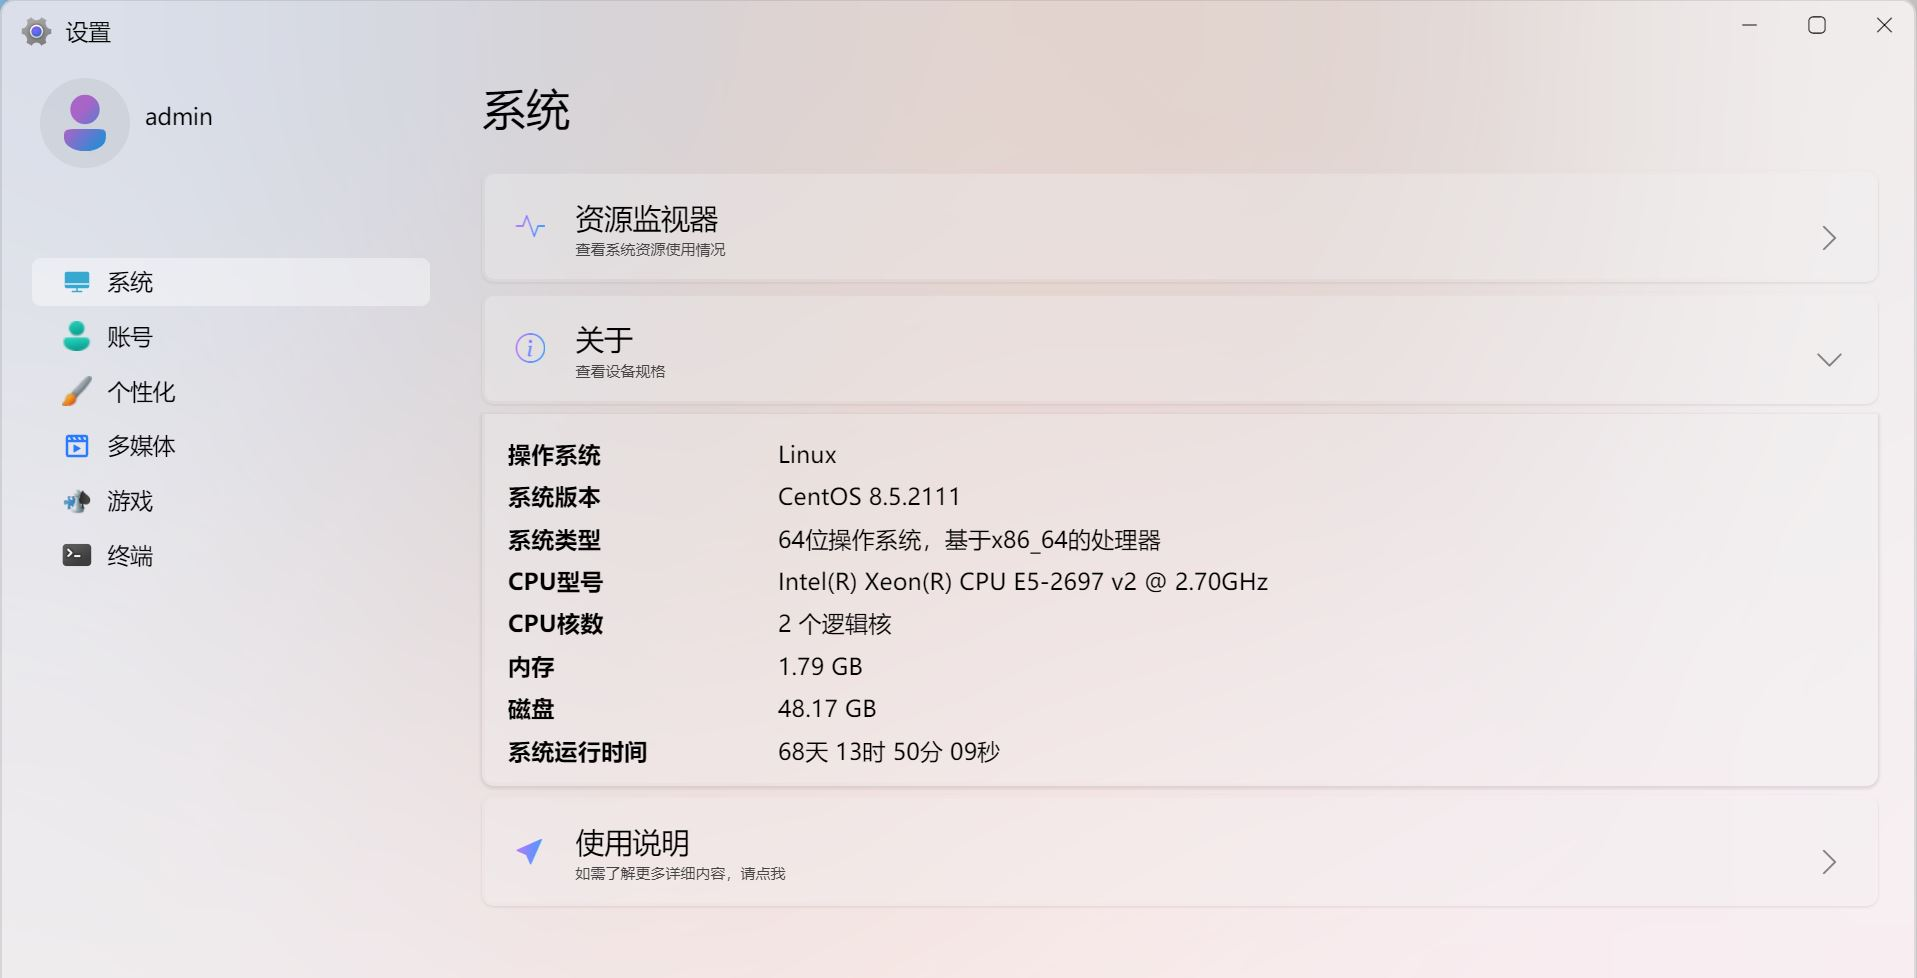
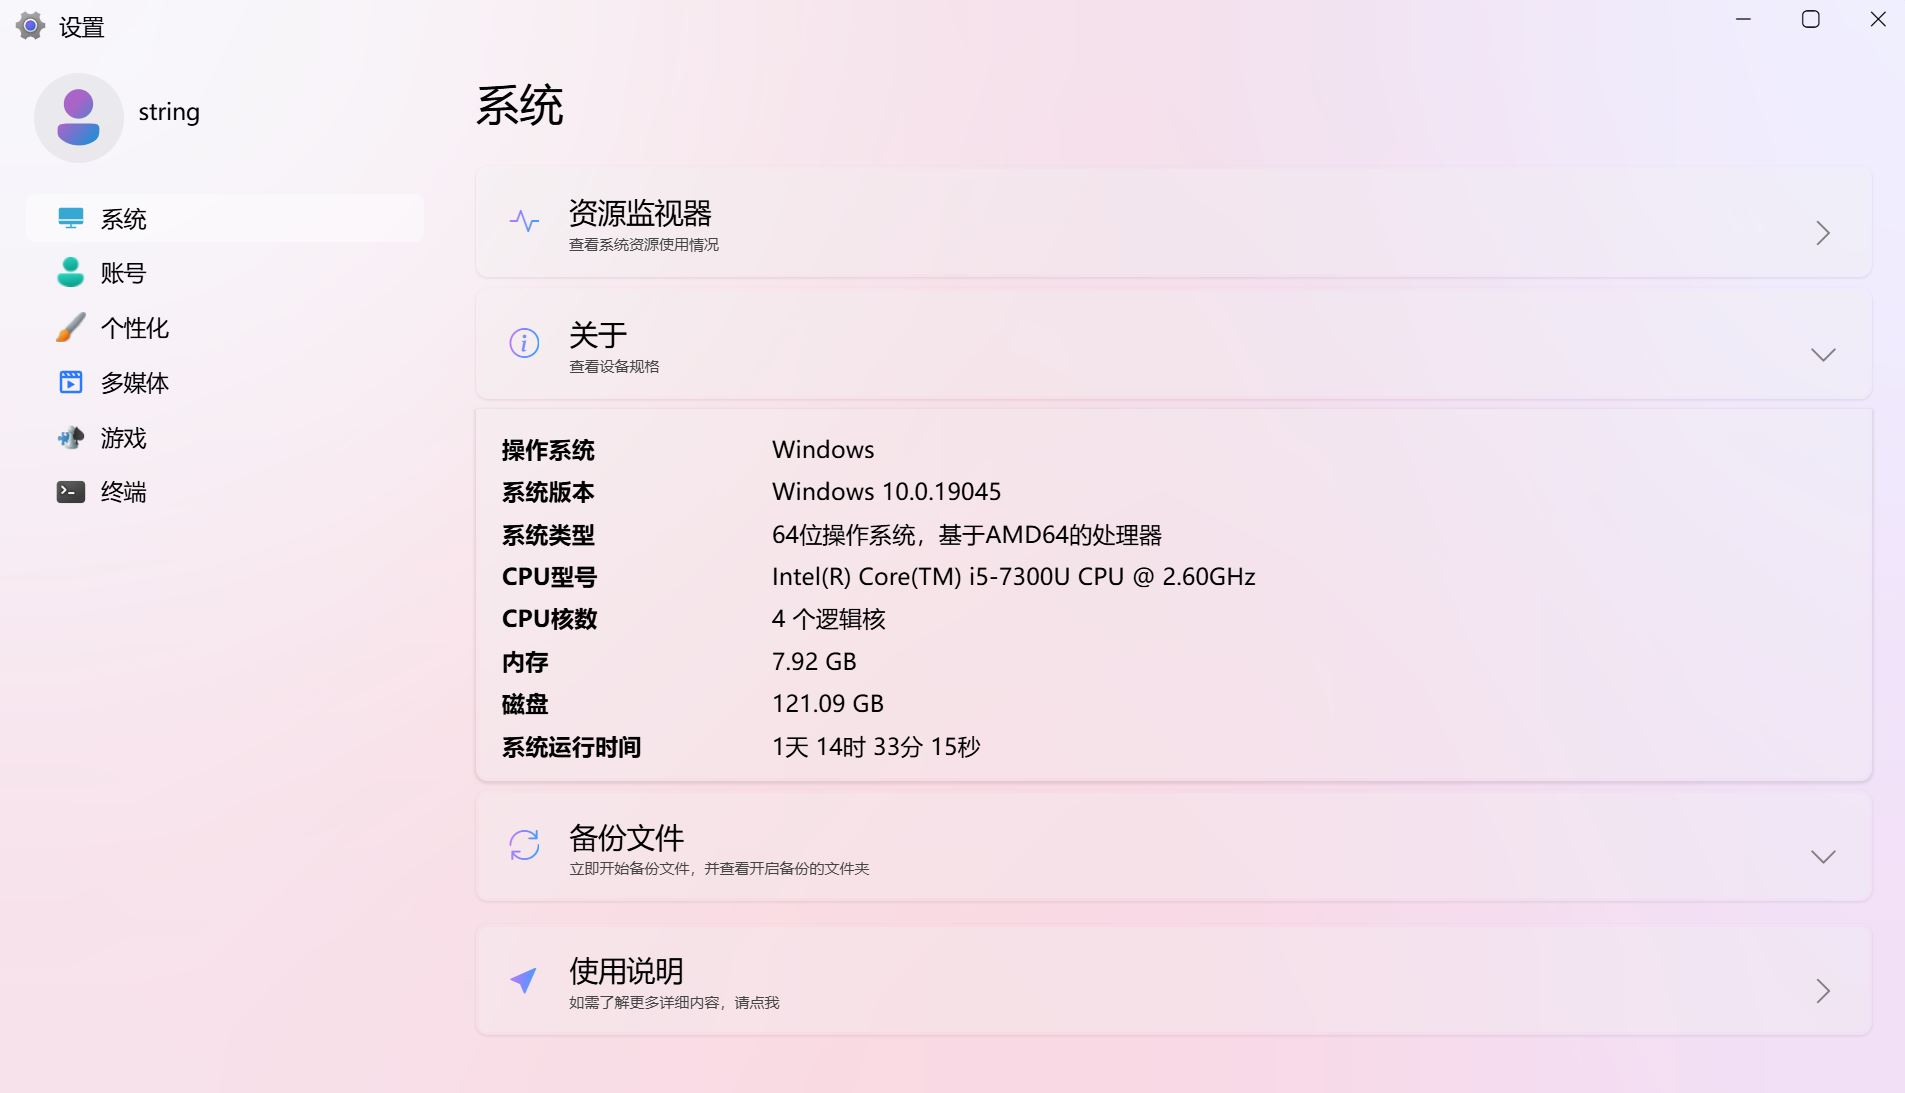
add

Changed region(s): [[0.0, 0.0, 0.8672, 0.9202], [0.9291, 0.0, 1.0, 1.0], [0.031, 0.5521, 0.0929, 0.5828]]

diff --git a/p/940241891.html b/p/940241891.html
@@ -19,7 +19,7 @@
       <header class="header mobile-only"></header>
       <div class="article banner top"><div class="content"><div class="bottom only-title"><div class="text-area">
         <h1 class="text title"><span>Windows 风格的个人网盘</span></h1>
-      </div><div class="publish-date"><span>发布时间: 2024-02-28</span>&nbsp;&nbsp;&nbsp;&nbsp;<span>更新时间: 2024-11-13</span><span class="copy-right">版权</span></div><div class="copyright-content"></div></div></div></div>
+      </div><div class="publish-date"><span>发布时间: 2024-02-28</span>&nbsp;&nbsp;&nbsp;&nbsp;<span>更新时间: 2024-11-19</span><span class="copy-right">版权</span></div><div class="copyright-content"></div></div></div></div>
       <article class="md-text content">
         <h2>写在最前面</h2>
         <p>众所周知，当前使用最广泛的云盘是百度网盘，而百度各种骚操作真让人无法忍受，倍速看视频还要开会员，真是恶心他妈给恶心开门。而号称不限速的阿里云盘也开始限速了，后面可能也和百度一个德行。其实各种体验问题都可以容忍，最无法忍受的是数据安全，我们上传到百度网盘的每一个文件，都已经被备份了 n 份了，尽管有些文件已经被我们删除了，但是这些文件仍然在百度的服务器里，个人隐私极不安全；可能有些人不太清楚，很久之前百度网盘有一个秒传功能，为什么一个几 G 的文件能秒传，那是因为百度的服务器里已经有了一个相同的文件了，你上传的文件其实并不是你的文件，如果你删除了这个文件，其实你也并没有删除这个文件。而且百度还有人工审核（偷窥）用户隐私图片的前科。还有另一个非常严重的问题是自己好不容易收藏的电影，结果变成了 8s 的教育片。</p>
@@ -35,6 +35,7 @@
             <li>支持 txt、markdown、xmind脑图、表格、文档的在线编辑功能 —— 开源支持前2个</li>
             <li>支持 python 脚本在线编辑和运行 —— 开源支持</li>
             <li>支持给文件添加桌面快捷方式</li>
+            <li>支持自动备份指定文件夹中的所有文件</li>
             <li>支持远程连接 Linux 服务器</li>
             <li>音乐播放器，支持播放云盘（服务端）和本地（客户端）的音乐</li>
             <li>支持 Karaoke，自建曲库，在家想唱就唱</li>
@@ -83,26 +84,10 @@
         <h3>页面总概览</h3>
         <p>桌面背景图片可以在<code>设置</code>里更换。</p>
         <img src="/img/Windows/desktop.jpg" alt="desktop.jpg" loading="lazy">
-        <h3>文件资源管理器</h3>
-        <p>上边一排工具栏依次是新建文件、新建文件夹、重命名、移动、复制、上传、下载、分享、删除、列表展示/图标展示，这些图标均来源<code>Windows10</code>的系统图标。文件列表可按照名称、创建时间、修改时间排序。文件资源管理器中的所有文件，除了支持在线编辑的文件外，其他格式的文件会直接用浏览器打开，浏览器能打开预览的文件可以直接在浏览器中预览，浏览器不支持预览的文件则直接下载到本地。</p>
-        <p>使用文件上传功能上传文件时，会首先检测网盘是否存在相同的文件，如果存在则不上传，这就是类似一些网盘的秒传的功能。</p>
-        <img src="/img/Windows/file.jpg" alt="file.jpg" loading="lazy">
-        <p>图标展示时，一般展示的是默认图标，只有图片才会展示图片的缩略图，在图片比较多的情况下可以直接快速预览图片，而不必一张张的打开关闭寻找图片了。说白了，这个功能就是专门为了快速浏览大量的图片，但在图片较多时，可能会存在性能问题（列表展示就不会存在性能问题）。</p>
-        <img src="/img/Windows/icon_view.jpg" alt="icon_view.jpg" loading="lazy">
-        <h3>回收站</h3>
-        <p>上边一排工具栏依次是还原文件、删除文件、清空回收站，基本上和<code>Windows</code>系统的回收站操作一样。</p>
-        <img src="/img/Windows/garbage.jpg" alt="garbage.jpg" loading="lazy">
-        <h3>我的分享</h3>
-        <p>当分享文件时，可设置分享链接的打开次数，超过次数会返回 Nginx 默认页面，如果不想限制分享链接的打开次数，可设置打开次数为 0。其中：markdown、表格、文档 和 xmind 分享链接打开后页面虽然可以编辑，但数据不会保存，仅支持导出数据。</p>
-        <p>分享功能的常规使用场景是分享文件给别人，还要一个场景就是去打印店打印文档，通过浏览器调用打印机后，刷新页面到指定的次数，这个链接就失效了，有效降低了文档泄漏的风险和使用U盘被病毒感染的风险。</p>
-        <img src="/img/Windows/share.jpg" alt="share.jpg" loading="lazy">
-        <h3>添加快捷方式</h3>
-        <p>我们在使用电脑时，通常会把常用的文件放在桌面上以方便使用，这个网盘同样也支持该功能。参考 Windows 的快捷方式的功能，当在文件上右键时（只支持文件，不支持文件夹），可添加桌面快捷方式，刷新页面即可在桌面上看到文件；在桌面上右键快捷方式，可以选删除快捷方式，或者打开文件所在位置，是不是和在 Windows 上操作几乎一样。</p>
-        <img src="/img/Windows/shortcuts.jpg" alt="shortcuts.jpg" loading="lazy">
         <h3>设置</h3>
         <p>设置里包含系统、账号、个性化、多媒体、游戏、终端等多个功能。</p>
         <h4>系统</h4>
-        <p>可以查看系统资源使用情况和设备相关信息，如下：</p>
+        <p>可以查看系统资源使用情况、设备相关信息、备份文件、查看教程，如下：</p>
         <img src="/img/Windows/system_about.jpg" alt="system_about.jpg" loading="lazy">
         <img src="/img/Windows/system_resource.jpg" alt="system_resource.jpg" loading="lazy">
         <h4>账号</h4>
@@ -120,6 +105,27 @@
         <h4>终端</h4>
         <p>可以添加服务器用于远程连接 Linux，可以执行 Shell 命令和上传下载文件。</p>
         <img src="/img/Windows/setting_terminal.jpg" alt="setting_terminal.jpg" loading="lazy">
+        <h3>文件资源管理器</h3>
+        <p>上边一排工具栏依次是新建文件、新建文件夹、重命名、移动、复制、上传、下载、分享、删除、列表展示/图标展示，这些图标均来源<code>Windows10</code>的系统图标。文件列表可按照名称、创建时间、修改时间排序。文件资源管理器中的所有文件，除了支持在线编辑的文件外，其他格式的文件会直接用浏览器打开，浏览器能打开预览的文件可以直接在浏览器中预览，浏览器不支持预览的文件则直接下载到本地。</p>
+        <p>使用文件上传功能上传文件时，会首先检测网盘是否存在相同的文件，如果存在则不上传，这就是类似一些网盘的秒传的功能。</p>
+        <img src="/img/Windows/file.jpg" alt="file.jpg" loading="lazy">
+        <p>图标展示时，一般展示的是默认图标，只有图片才会展示图片的缩略图，在图片比较多的情况下可以直接快速预览图片，而不必一张张的打开关闭寻找图片了。说白了，这个功能就是专门为了快速浏览大量的图片，但在图片较多时，可能会存在性能问题（列表展示就不会存在性能问题）。</p>
+        <img src="/img/Windows/icon_view.jpg" alt="icon_view.jpg" loading="lazy">
+        <h3>回收站</h3>
+        <p>上边一排工具栏依次是还原文件、删除文件、清空回收站，基本上和<code>Windows</code>系统的回收站操作一样。</p>
+        <img src="/img/Windows/garbage.jpg" alt="garbage.jpg" loading="lazy">
+        <h3>我的分享</h3>
+        <p>当分享文件时，可设置分享链接的打开次数，超过次数会返回 Nginx 默认页面，如果不想限制分享链接的打开次数，可设置打开次数为 0。其中：markdown、表格、文档 和 xmind 分享链接打开后页面虽然可以编辑，但数据不会保存，仅支持导出数据。</p>
+        <p>分享功能的常规使用场景是分享文件给别人，还要一个场景就是去打印店打印文档，通过浏览器调用打印机后，刷新页面到指定的次数，这个链接就失效了，有效降低了文档泄漏的风险和使用U盘被病毒感染的风险。</p>
+        <img src="/img/Windows/share.jpg" alt="share.jpg" loading="lazy">
+        <h3>添加快捷方式</h3>
+        <p>我们在使用电脑时，通常会把常用的文件放在桌面上以方便使用，这个网盘同样也支持该功能。参考 Windows 的快捷方式的功能，当在文件上右键时（只支持文件，不支持文件夹），可添加桌面快捷方式，刷新页面即可在桌面上看到文件；在桌面上右键快捷方式，可以选删除快捷方式，或者打开文件所在位置，是不是和在 Windows 上操作几乎一样。</p>
+        <img src="/img/Windows/shortcuts.jpg" alt="shortcuts.jpg" loading="lazy">
+        <h3>自动备份</h3>
+        <p>现在的电子设备或多或少都会在使用过程中出现故障，导致重要数据丢失，因此对重要的数据进行备份就显得极其重要。本网盘支持将数据自动备份到另一块磁盘上。</p>
+        <p>网盘支持备份指定文件夹中的所有数据，为什么要指定文件夹而不是默认备份所有文件呢？因为，如果数据全部备份，那么就需要两块很大的磁盘，这不是浪费吗。我们存在磁盘中的文件，很多并不是重要的文件，没必要为了不重要的文件而占用过多的存储资源，因此，只需要将你认为重要的文件夹进行备份就可以了。如果你是土豪，就想备份所有文件，那么请把根目录下的文件夹全部设置成自动备份。</p>
+        <p>在需要备份的文件夹上右键，点击<code>开启自动备份</code>，然后每天（可设置每天、每两天、每 n 天...）凌晨 5:20 开始自动备份文件，如果你删除了文件，自动备份时，也会同步删除备份的文件。在文件夹上右键，点击<code>取消自动备份</code>，那么则不会再自动备份了，但是已经备份的文件不会被自动删除，需要手动去删除。</p>
+        <p>当然了，也可以手动立即开始备份数据。在<code>设置->系统</code>里，点击<code>备份文件</code>，即可立即开始备份，同时可以看到所有开启了自动备份的文件夹，在列表中可以打开文件夹所在位置和取消自动备份。</p>
         <h3>计算器</h3>
         <p>一个很鸡肋的小工具，感觉还不如用 python 命令行计算。</p>
         <img src="/img/Windows/calc.jpg" alt="calc.jpg" loading="lazy">

diff --git a/sw.js b/sw.js
@@ -1,4 +1,4 @@
-const CACHE_NAME = 'sw-11-16';
+const CACHE_NAME = 'sw-11-19';
 
 const urlsToCache = [
   '/', '/img/donate.jpg'
